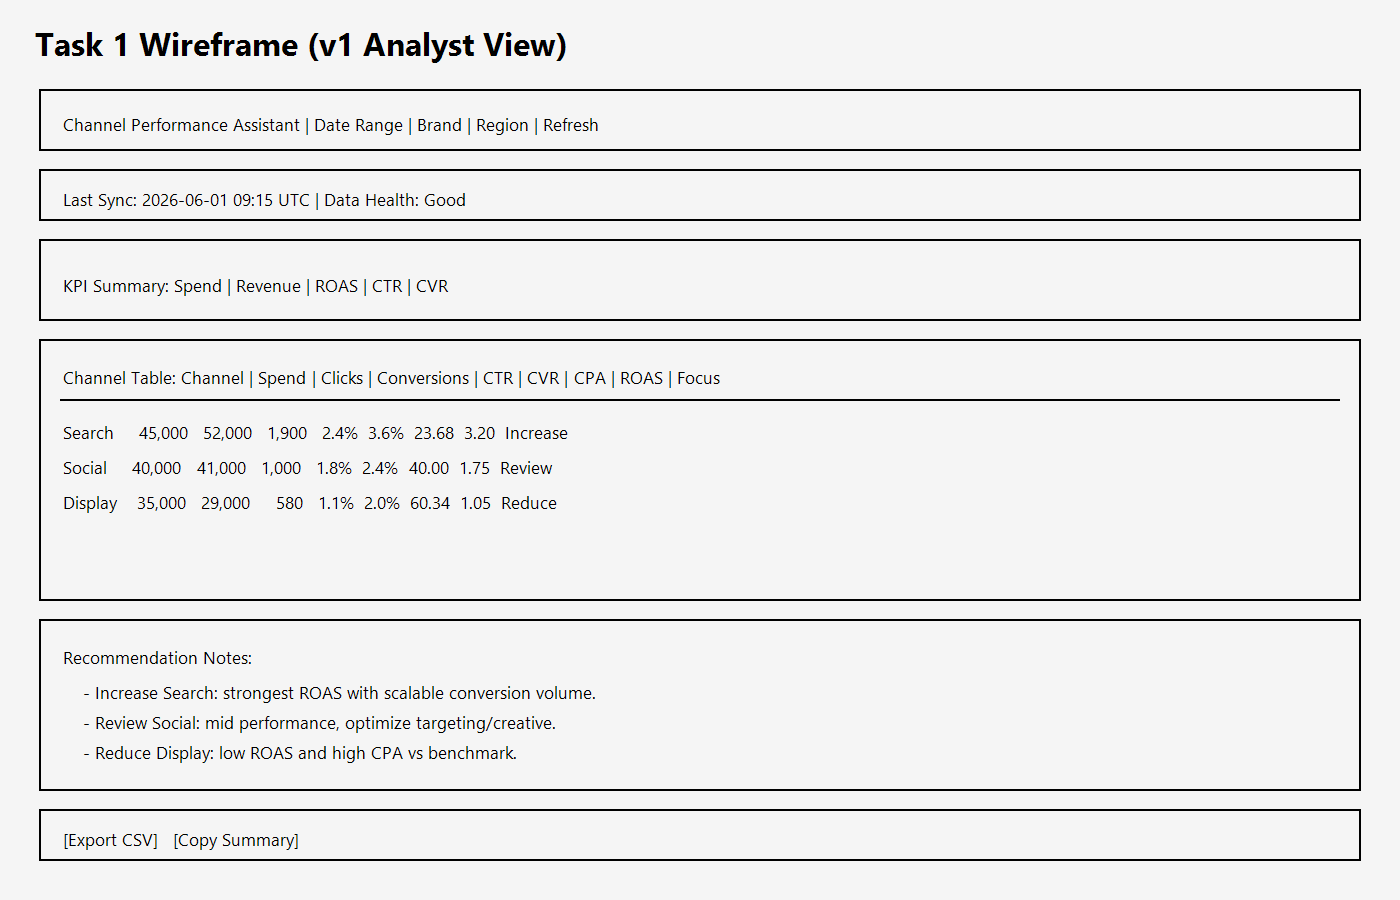
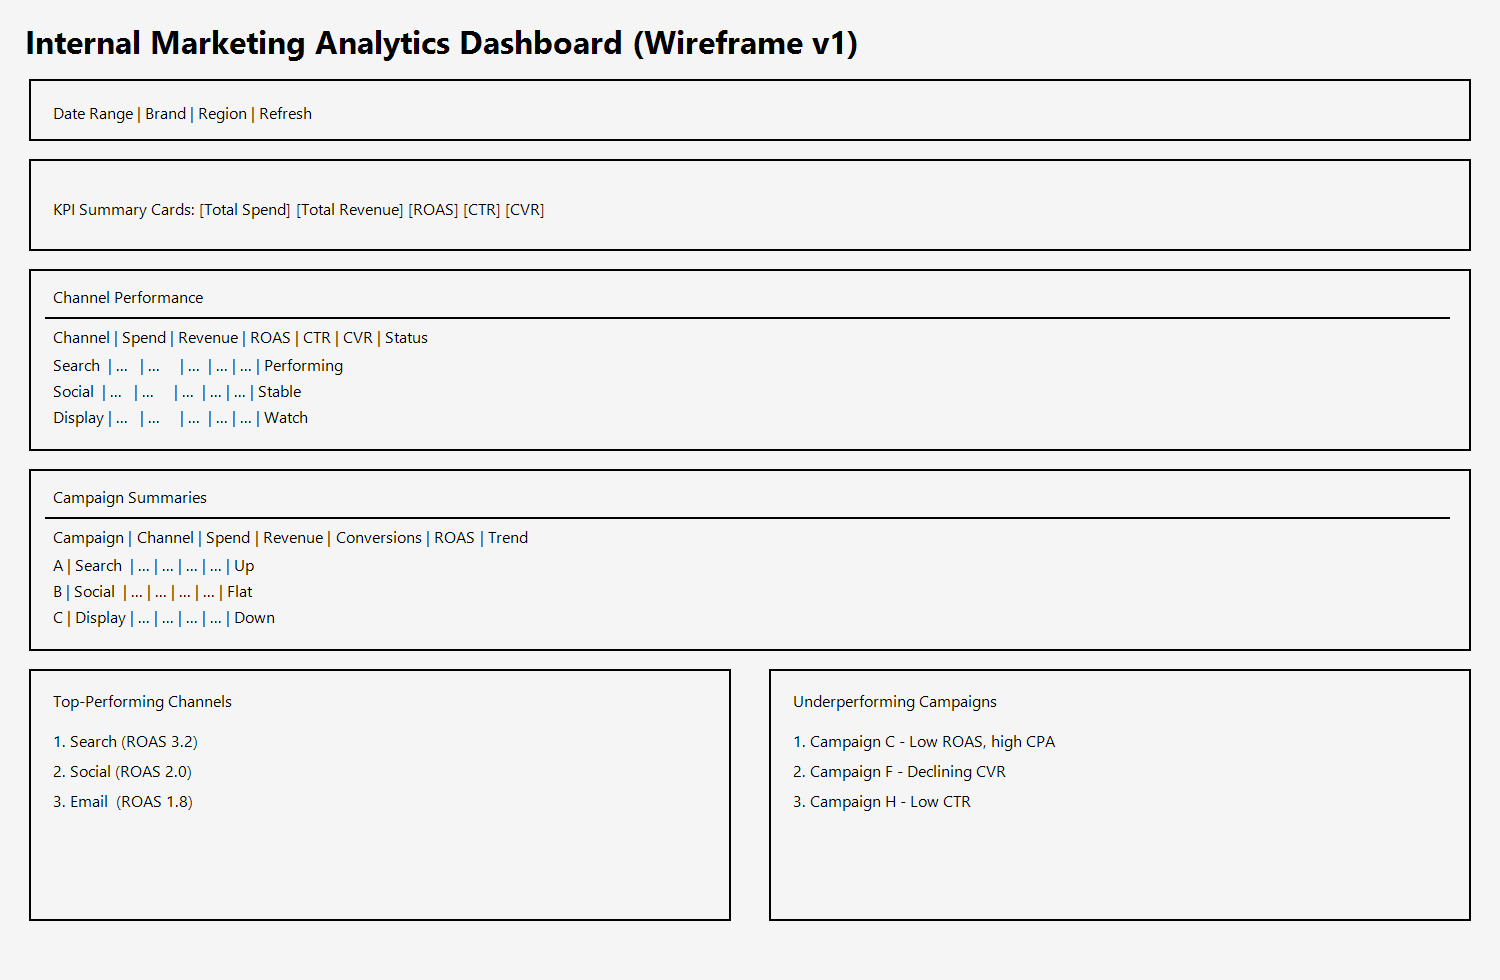
docs(task-1): design minimal analyst dashboard wireframe

diff --git a/task-1-product-scoping/wireframe.md b/task-1-product-scoping/wireframe.md
@@ -1,0 +1,36 @@
+# Wireframe - Internal Marketing Analytics Dashboard (v1)
+
+## Layout (Low-Fidelity)
+
+```text
++--------------------------------------------------------------------------------+
+| Internal Marketing Analytics Dashboard                                          |
+| Date Range: [Last 7 Days v]   Brand: [All v]   Region: [All v]   [Refresh]    |
++--------------------------------------------------------------------------------+
+| KPI Summary Cards                                                               |
+| [Total Spend]  [Total Revenue]  [ROAS]  [CTR]  [CVR]                           |
++--------------------------------------------------------------------------------+
+| Channel Performance                                                             |
+| Channel     Spend     Revenue    ROAS    CTR     CVR     Status                |
+| Search      ...       ...        ...     ...     ...     Performing            |
+| Social      ...       ...        ...     ...     ...     Stable                |
+| Display     ...       ...        ...     ...     ...     Watch                 |
++--------------------------------------------------------------------------------+
+| Campaign Summaries                                                              |
+| Campaign Name    Channel    Spend    Revenue    Conv    ROAS    Trend          |
+| Campaign A       Search     ...      ...        ...     ...     Up             |
+| Campaign B       Social     ...      ...        ...     ...     Flat           |
+| Campaign C       Display    ...      ...        ...     ...     Down           |
++--------------------------------------------------------------------------------+
+| Top-Performing Channels            | Underperforming Campaigns                 |
+| 1. Search (ROAS 3.2)               | 1. Campaign C - Low ROAS, high CPA       |
+| 2. Social (ROAS 2.0)               | 2. Campaign F - Declining CVR            |
+| 3. Email  (ROAS 1.8)               | 3. Campaign H - Low CTR                  |
++--------------------------------------------------------------------------------+
+```
+
+## Design Notes
+- Minimal visual complexity for fast internal decision-making.
+- KPI cards provide at-a-glance health before deeper table review.
+- Side-by-side top and underperforming panels support prioritization.
+- Tables prioritize consistency over heavy customization in v1.

diff --git a/task-1-product-scoping/README.md b/task-1-product-scoping/README.md
@@ -6,7 +6,7 @@ This folder follows the required Task 1 workflow structure.
 - `README.md`
 - `product_brief.md`
 - `architecture_diagram.png`\n- `architecture_workflow.md`
-- `wireframe.png`
+- `wireframe.png`\n- `wireframe.md`
 - `walkthrough_notes.md`\n- `v1_scope.md`
 
 ## What This Covers